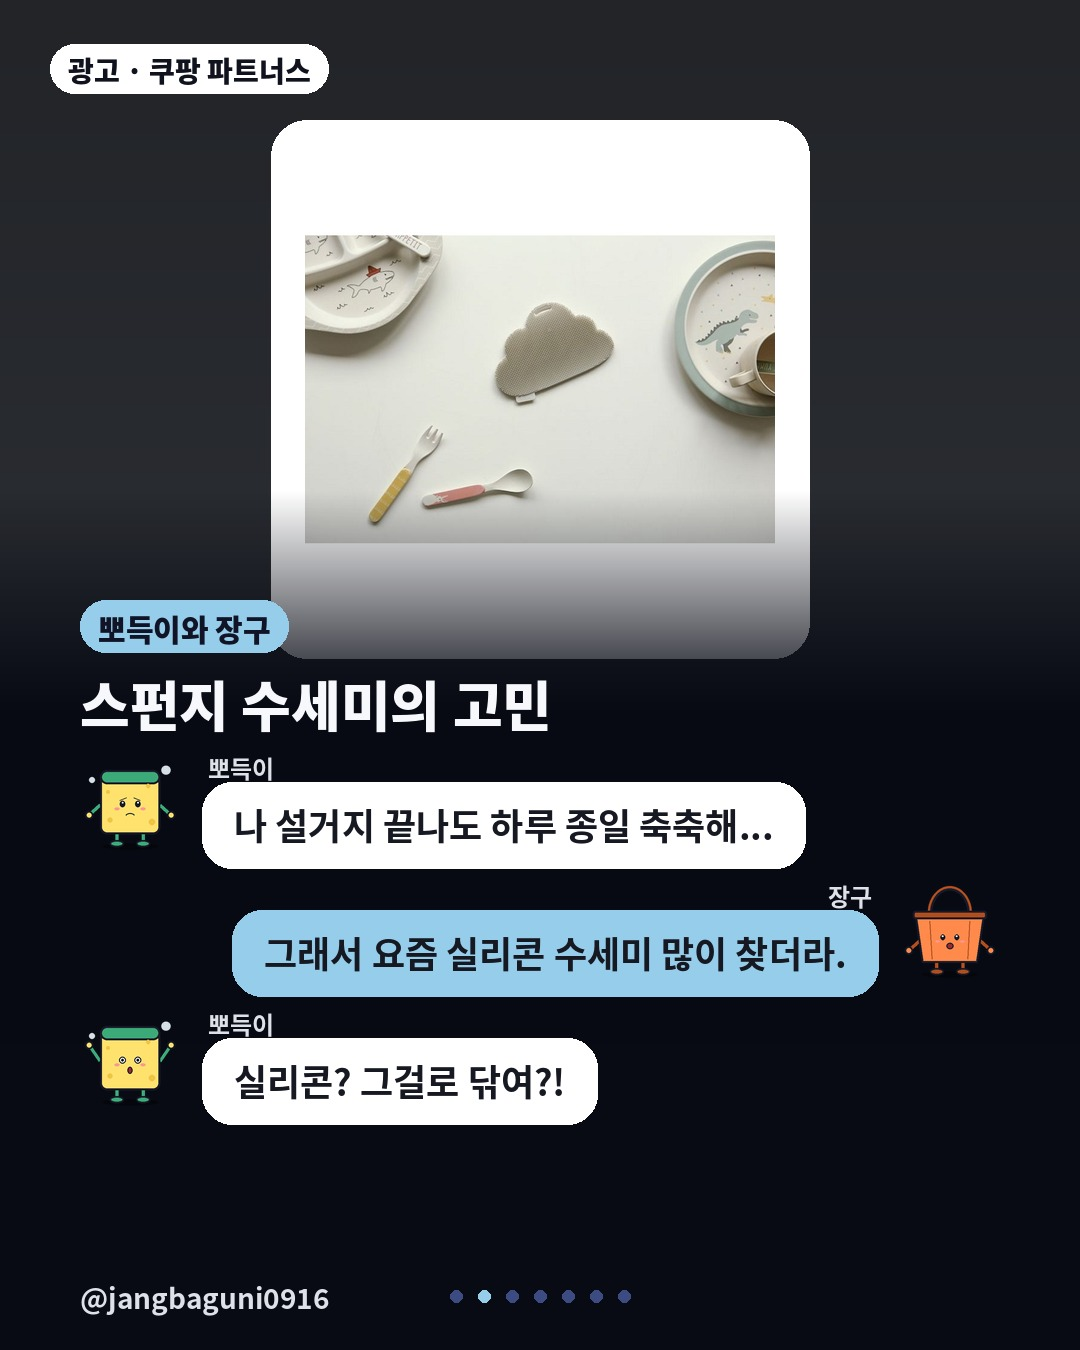
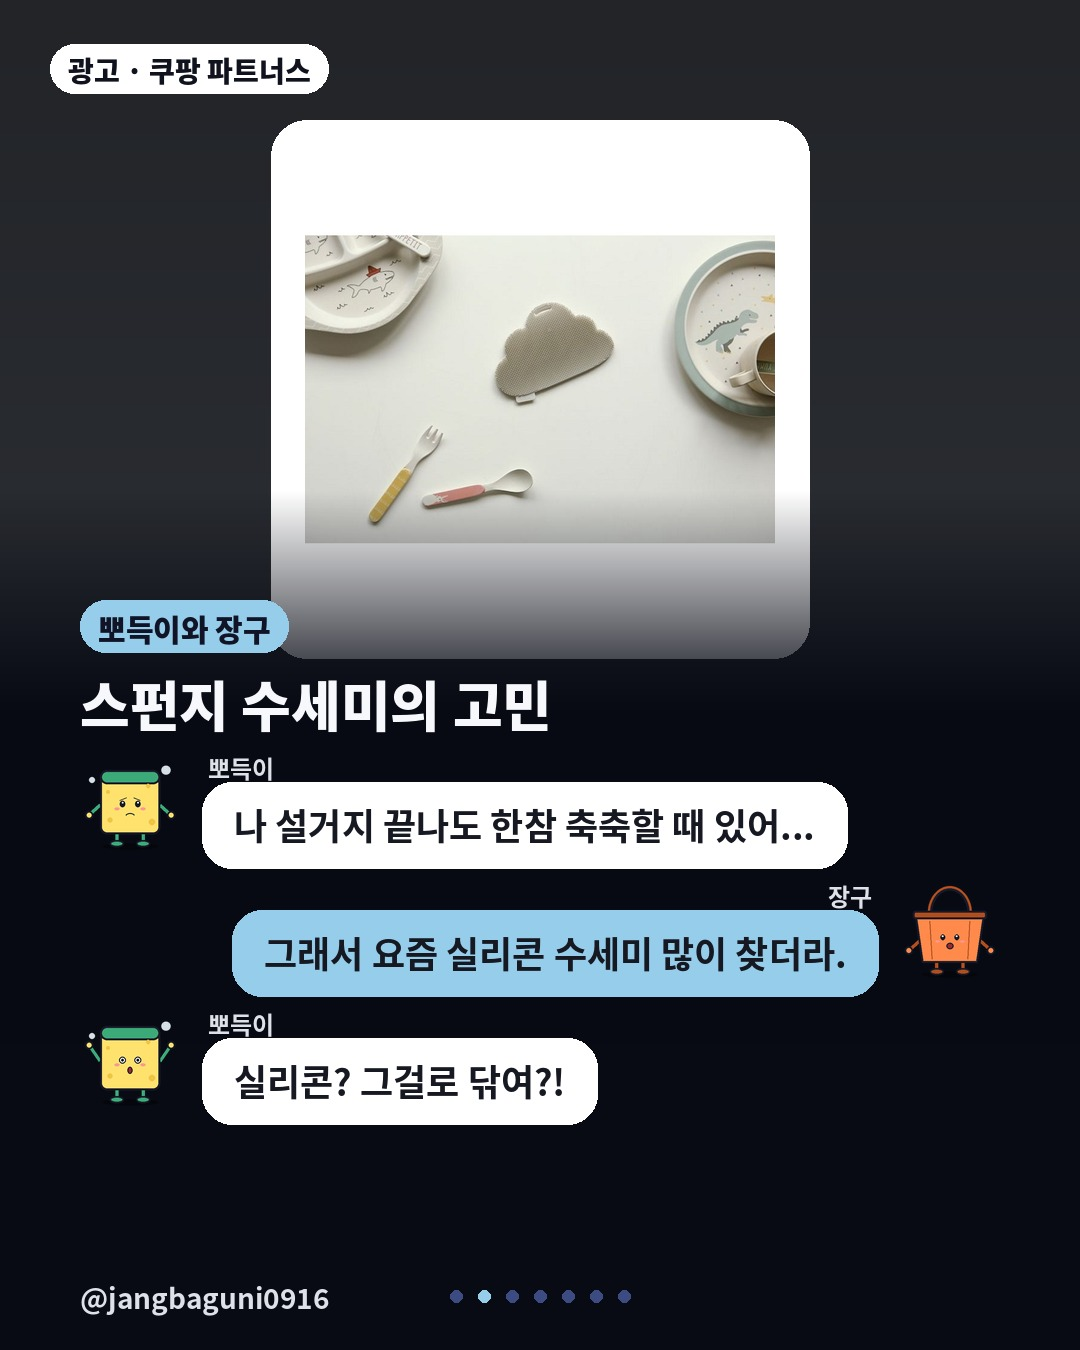
꿀템 카드 문구 완화(교차 검증 반영) + 기록: 2026-11-10

Changed region(s): [[0.4583, 0.56, 0.7944, 0.6533]]

diff --git a/picks/topics_log.md b/picks/topics_log.md
@@ -25,3 +25,5 @@
 - 2026-11-05 1830 쇼츠: 코멧 홈 어깨 뿔 방지 논슬립 옷걸이 10개 (22번)
 - 2026-11-06 1300 카드: 락앤락 김치통의 정석 숨쉬는 김치통 4.5L 2개 (23번)
 - 2026-11-06 1330 쇼츠: 엔더 초강력 실리콘 틈새차단 방수 단면 테이프 투명 5m (24번)
+- 2026-11-10 1300 카드: 데일리라이크 실리콘 수세미 01 클라우드 (25번) [스타일: 캐릭터 대화/뽀득이·장구]
+- 2026-11-10 1330 쇼츠: 디어커스 길이조절 피니셔 스퀴지 (26번) [스타일: 캐릭터 대화/택배·장구]
